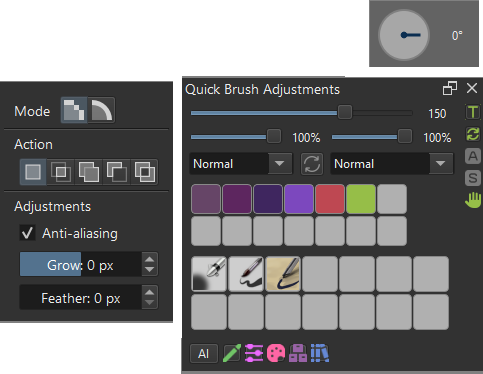
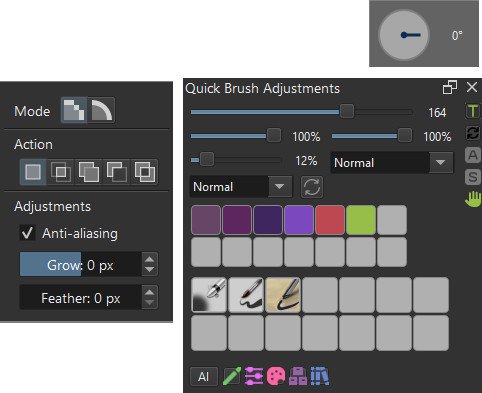
update

Changed region(s): [[0.0, 0.1176, 1.0, 1.0], [0.8091, 0.0588, 0.8714, 0.1176], [0.9336, 0.0588, 0.9647, 0.1176]]

diff --git a/quick_access_manager/brush_adjust/brush_monitor.py b/quick_access_manager/brush_adjust/brush_monitor.py
@@ -20,6 +20,7 @@ class BrushMonitorMixin:
         self.current_brush_name = None
         self.current_brush_size = None
         self.current_brush_opacity = None
+        self.current_brush_flow = None
         self.current_brush_rotation = None
         self.current_blend_mode = None
         self.updating_from_brush = False
@@ -33,9 +34,14 @@ class BrushMonitorMixin:
         self.size_debounce_timer.setSingleShot(True)
         self.size_debounce_timer.timeout.connect(self.apply_size_change)
 
+        self.flow_debounce_timer = QTimer()
+        self.flow_debounce_timer.setSingleShot(True)
+        self.flow_debounce_timer.timeout.connect(self.apply_flow_change)
+
         # Pending values
         self.pending_opacity_value = None
         self.pending_size_value = None
+        self.pending_flow_value = None
 
         # Periodic check timer
         self.brush_check_timer = QTimer()
@@ -55,6 +61,7 @@ class BrushMonitorMixin:
                     # Get current brush properties
                     current_size = None
                     current_opacity = None
+                    current_flow = None
                     current_rotation = None
                     current_blend_mode = None
 
@@ -65,6 +72,11 @@ class BrushMonitorMixin:
 
                     try:
                         current_opacity = view.paintingOpacity()
+                    except:
+                        pass
+
+                    try:
+                        current_flow = view.paintingFlow()
                     except:
                         pass
 
@@ -82,6 +94,7 @@ class BrushMonitorMixin:
                     brush_changed = brush_name != self.current_brush_name
                     size_changed = current_size != self.current_brush_size
                     opacity_changed = current_opacity != self.current_brush_opacity
+                    flow_changed = current_flow != self.current_brush_flow
                     rotation_changed = current_rotation != self.current_brush_rotation
                     blend_changed = current_blend_mode != self.current_blend_mode
 
@@ -89,12 +102,14 @@ class BrushMonitorMixin:
                         brush_changed
                         or size_changed
                         or opacity_changed
+                        or flow_changed
                         or rotation_changed
                         or blend_changed
                     ):
                         self.current_brush_name = brush_name
                         self.current_brush_size = current_size
                         self.current_brush_opacity = current_opacity
+                        self.current_brush_flow = current_flow
                         self.current_brush_rotation = current_rotation
                         self.current_blend_mode = current_blend_mode
                         self.update_from_current_brush()
@@ -138,6 +153,20 @@ class BrushMonitorMixin:
                     self.opacity_slider.setValue(100)
                     self.opacity_value_label.setText("100%")
                     self.current_brush_opacity = 1.0
+
+            # Get current flow
+            if self.flow_slider is not None:
+                try:
+                    flow = view.paintingFlow()
+                    flow_percent = int(flow * 100)  # Convert from 0-1 to 0-100
+                    self.flow_slider.setValue(flow_percent)
+                    self.flow_value_label.setText(f"{flow_percent}%")
+                    self.current_brush_flow = flow
+                except:
+                    # Fallback if flow method doesn't work
+                    self.flow_slider.setValue(100)
+                    self.flow_value_label.setText("100%")
+                    self.current_brush_flow = 1.0
 
             # Get brush rotation
             if self.rotation_widget is not None:
@@ -240,6 +269,37 @@ class BrushMonitorMixin:
             except Exception as e:
                 print(f"Error setting brush opacity: {e}")
 
+    def on_flow_changed_debounced(self, value):
+        """Handle flow slider with debouncing"""
+        if self.updating_from_brush or self.flow_slider is None:
+            return
+
+        # Update UI immediately for responsive feel
+        self.flow_value_label.setText(f"{value}%")
+
+        # Store the pending value
+        self.pending_flow_value = value
+
+        # Restart timer (300ms delay)
+        self.flow_debounce_timer.start(300)
+
+    def apply_flow_change(self):
+        """Apply the pending flow change to Krita"""
+        if self.pending_flow_value is None:
+            return
+
+        value = self.pending_flow_value
+        flow_float = value / 100.0
+        self.current_brush_flow = flow_float
+
+        app = Krita.instance()
+        if app.activeWindow() and app.activeWindow().activeView():
+            view = app.activeWindow().activeView()
+            try:
+                view.setPaintingFlow(flow_float)
+            except Exception as e:
+                print(f"Error setting brush flow: {e}")
+
     def on_rotation_changed(self, value):
         """Handle brush rotation change"""
         if self.updating_from_brush or self.rotation_widget is None:
@@ -289,6 +349,7 @@ class BrushMonitorMixin:
             self.current_brush_name = None
             self.current_brush_size = None
             self.current_brush_opacity = None
+            self.current_brush_flow = None
             self.current_brush_rotation = None
             self.current_blend_mode = None
 

diff --git a/quick_access_manager/brush_adjust/adjustment_widget.py b/quick_access_manager/brush_adjust/adjustment_widget.py
@@ -129,7 +129,7 @@ class BrushAdjustmentWidget(QWidget, BrushMonitorMixin, LayerMonitorMixin):
             self.size_value_label = None
 
         # ============================================
-        # Brush Section: Opacity Slider, Blend Mode (conditionally created)
+        # Brush Section: Opacity Slider, Flow Slider, Blend Mode (conditionally created)
         # ============================================
         brush_and_layer_layout = QHBoxLayout()
         brush_section_layout = QVBoxLayout()
@@ -155,6 +155,29 @@ class BrushAdjustmentWidget(QWidget, BrushMonitorMixin, LayerMonitorMixin):
         else:
             self.opacity_slider = None
             self.opacity_value_label = None
+
+        # Flow slider (under opacity slider)
+        flow_config = self.brush_config.get("flow_slider", {})
+        if flow_config.get("enabled", True):
+            brush_flow_layout = QHBoxLayout()
+
+            self.flow_slider = QSlider(Qt.Horizontal)
+            self.flow_slider.setMinimum(0)
+            self.flow_slider.setMaximum(100)
+            self.flow_slider.setValue(100)
+            self.flow_slider.valueChanged.connect(self.on_flow_changed_debounced)
+
+            number_size = flow_config.get("number_size", get_number_size())
+            self.flow_value_label = QLabel("100%")
+            self.flow_value_label.setStyleSheet(f"font-size: {number_size};")
+            self.flow_value_label.setAlignment(Qt.AlignCenter)
+            self.flow_value_label.setFixedWidth(35)
+
+            brush_flow_layout.addWidget(self.flow_slider, 1)
+            brush_flow_layout.addWidget(self.flow_value_label)
+        else:
+            self.flow_slider = None
+            self.flow_value_label = None
 
         # Brush blend mode and reset button
         brush_blend_reset_layout = QHBoxLayout()
@@ -246,6 +269,8 @@ class BrushAdjustmentWidget(QWidget, BrushMonitorMixin, LayerMonitorMixin):
         # Assemble brush section
         if opacity_config.get("enabled", True):
             brush_section_layout.addLayout(brush_opacity_layout)
+        if flow_config.get("enabled", True):
+            brush_section_layout.addLayout(brush_flow_layout)
         if self.blend_combo is not None:
             brush_blend_reset_layout.addWidget(self.blend_combo)
             brush_blend_reset_layout.addWidget(self.reset_btn)
@@ -354,6 +379,7 @@ class BrushAdjustmentWidget(QWidget, BrushMonitorMixin, LayerMonitorMixin):
         self.current_brush_name = None
         self.current_brush_size = None
         self.current_brush_opacity = None
+        self.current_brush_flow = None
         self.current_brush_rotation = None
         self.current_blend_mode = None
         self.update_from_current_brush()

diff --git a/quick_access_manager/dialogs/settings_dialog.py b/quick_access_manager/dialogs/settings_dialog.py
@@ -171,8 +171,14 @@ class CommonConfigDialog(QDialog):
         # Add fields for brush_section
         brush_section = self.quick_adjust_config.get("brush_section", {})
         layout.addWidget(QLabel("[brush_section]"))
-        for slider_name in ["size_slider", "opacity_slider"]:
+        for slider_name in ["size_slider", "opacity_slider", "flow_slider"]:
             slider = brush_section.get(slider_name, {})
+            # Ensure flow_slider exists with defaults if missing
+            if slider_name == "flow_slider" and not slider:
+                slider = {"enabled": True, "number_size": "12px"}
+                if "brush_section" not in self.quick_adjust_config:
+                    self.quick_adjust_config["brush_section"] = {}
+                self.quick_adjust_config["brush_section"]["flow_slider"] = slider
             layout.addWidget(QLabel(f"  {slider_name}:"))
 
             for key, value in slider.items():

diff --git a/quick_access_manager/config/quick_adjust_docker_loader.py b/quick_access_manager/config/quick_adjust_docker_loader.py
@@ -11,6 +11,7 @@ def _get_default_config():
         "brush_section": {
             "size_slider": {"enabled": True, "number_size": "12px"},
             "opacity_slider": {"enabled": True, "number_size": "12px"},
+            "flow_slider": {"enabled": True, "number_size": "12px"},
         },
         "layer_section": {"opacity_slider": {"enabled": True, "number_size": "12px"}},
         "brush_history_section": {"enabled": True, "total_items": 14, "icon_size": 34},

diff --git a/CHANGELOG.md b/CHANGELOG.md
@@ -8,6 +8,11 @@ The format is based on [Keep a Changelog](https://keepachangelog.com/en/1.0.0/).
 - Preserve Alpha toggle button in Quick Adjust Docker control panel
   - Click to toggle Krita's preserve alpha mode on/off
   - Visual indicator shows current preserve alpha status
+- Brush Flow slider in Quick Adjust Docker
+  - Located under the opacity slider in the brush section
+  - Uses `paintingFlow()` to get current flow and `setPaintingFlow()` to update
+  - Configurable via Settings dialog (enabled/disabled, number_size)
+  - Debounced input for smooth performance
 
 ### Changed
 - Floating Tool Options widget now checks Krita's `ToolOptionsInDocker` setting before initialization
